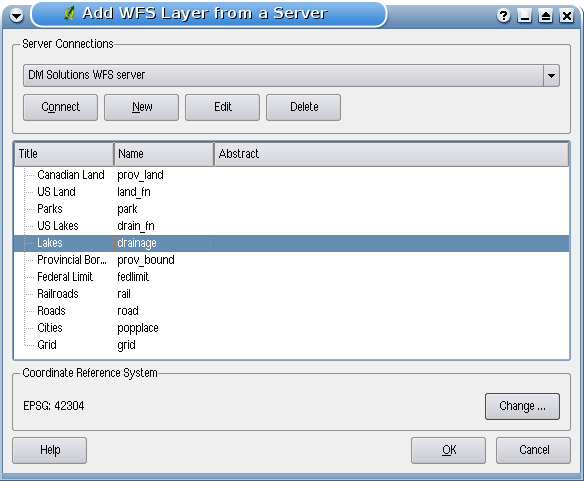
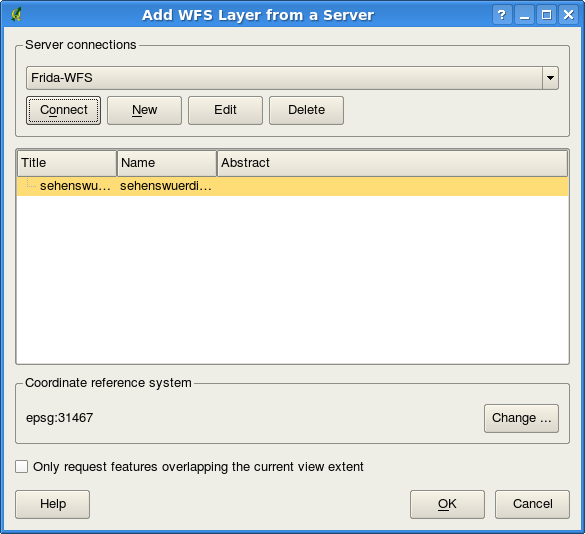
Updated OGC-chapter for new QGIS 1.5.0
* working_with_ogc.tex, working_with_ogc_screenies/connection_wfs.png,
  working_with_ogc_screenies/wms_server-search.png,
  working_with_ogc_screenies/connection_wms.png: Updated the OGC-part for
  QGIS 1.5.0

* Makefile: Added a basic Makefile for easy building (at least under
  linux). just type 'make' inside the folder, everything else will work
  automagically.

git-svn-id: https://svn.osgeo.org/qgis/docs/trunk@14015 c8812cc2-4d05-0410-92ff-de0c093fc19c

diff --git a/english_us/user_guide/working_with_ogc.tex b/english_us/user_guide/working_with_ogc.tex
@@ -95,7 +95,7 @@ parameter is optional.\\
 If you need to set up a proxy-server to be able to receive WMS-services
 from the internet, you can add your proxy-server in the options.
 Choose menu \mainmenuopt{Settings} > \dropmenuopttwo{mActionOptions}{Options}
-and click on the \tab{Proxy} tab. There you can add your proxy-settings 
+and click on the \tab{Network \& Proxy} tab. There you can add your proxy-settings 
 and enable them by setting the \checkbox{Use proxy for web access}.
 Make sure that you select the correct proxy-type from the
 \dropmenuopt{Proxy type} dropdown menu.
@@ -169,6 +169,20 @@ Use PNG if you want precise representations of the original data, and you don't 
 the increased data transfer requirements.
 \index{WMS!image encoding}
 \end{Tip}
+
+\minisec{Options}
+
+The\tab{Options} section provides a text-field where you can add a name
+for the WMS-layer. This name will be presented in the legend after loading
+the layer.
+
+If the OnlineRessource-URL from the GetCapabilities-document is different
+from the given URL inside the connection-parameters, QGIS will ask you
+which URL it should use. Depending on your answer QGIS will check the
+checkboxes for yourself based on your answere. This can also be tweaked with a
+\checkbox{Ignore GetMap URL} checkbox and a
+\checkbox{Ignore GetFeatureInfo URL} checkbox separately, also later on.
+
 
 \minisec{Layers} \label{ogc-wms-layers}
 
@@ -278,6 +292,25 @@ keywords.
 Basically this option is a frontend to the API of
 \url{http://geopole.org}.
 
+%
+% Tilesets
+%
+\subsection{Tilesets}
+\index{WMS!tileset}
+\index{WMS!WMS-C}
+
+When using WMS-C (Cached WMS) Services like
+\url{http://labs.metacarta.com/wms-c/Basic.py} you are able to browse
+through the \tab{tiles}-tab given by the server. Additional information like
+tilesize, formats and supported CRS are listed in this table.
+
+In combination with this feature you can use the tile scale slider from
+the \mainmenuopt{View}>\dropmenuopt{tile scale slider}, which gives you
+the available scales from the tileserver with nice slider docked in.
+
+%
+% Identify
+%
 \subsection{Using the Identify Tool}\label{sec:ogc-wms-identify}
 \index{WMS!identify}
 \index{identify!WMS}
@@ -420,12 +453,16 @@ More information can be found at the InteProxy-manual found on the website
 \index{WMS!secured layers!}\index{OGC!Authentication}
 \end{Tip}
 
-
+%
+% WFS-client
+%
 \section{WFS Client}\label{sec:ogc-wfs}
 
 In QGIS, a WFS layer behaves pretty much like any other vector layer. You 
 can identify and select features and view the attribute table. An exception 
-is that editing is not supported at this time. To start the WFS plugin you 
+is that editing is not supported at this time (at the time of this writing
+there will be support for WFS-T in the near future as well). 
+To start the WFS plugin you 
 need to open \mainmenuopt{Plugins} > \dropmenuopttwo{mActionShowPluginManager}{Plugin Manager...}, 
 activate the \checkbox{WFS plugin} checkbox and click \button{OK}. 
 
@@ -467,6 +504,15 @@ in your preferences.
   	\includegraphics[clip=true,width=0.45\textwidth]{connection_wfs}
   	\caption{Adding a WFS layer \nixcaption}\label{fig:wfs_dmsolutions}
 \end{figure}
+
+Without using the checkbox \checkbox{Only request features overlapping the
+current view extent} QGIS fetches all features from the WFS-server. If you
+only want to have a small selection based on your extent, zoom to the area
+of interest, request the WFS-layer again and make sure you have checked
+the checkbox mentioned above. Basically this addes the BBOX-parameter with
+the values from you current extent to the WFS-query. This is extremly
+usefull when you only want to request \textbf{some} features from a huge
+WFS-dataset.
 
 You'll notice the download progress is visualized in the left bottom of the QGIS main window. 
 Once the layer is loaded, you can identify and select a province or two and view the 
